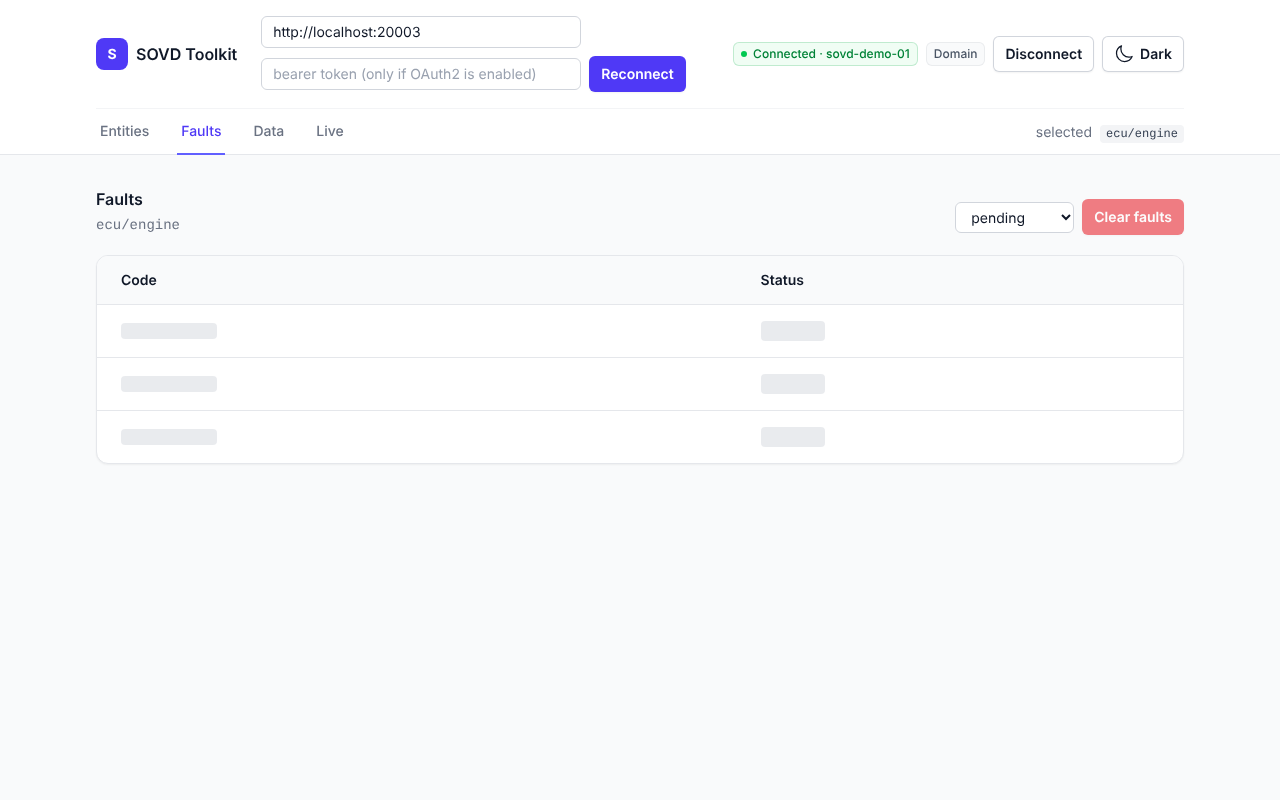
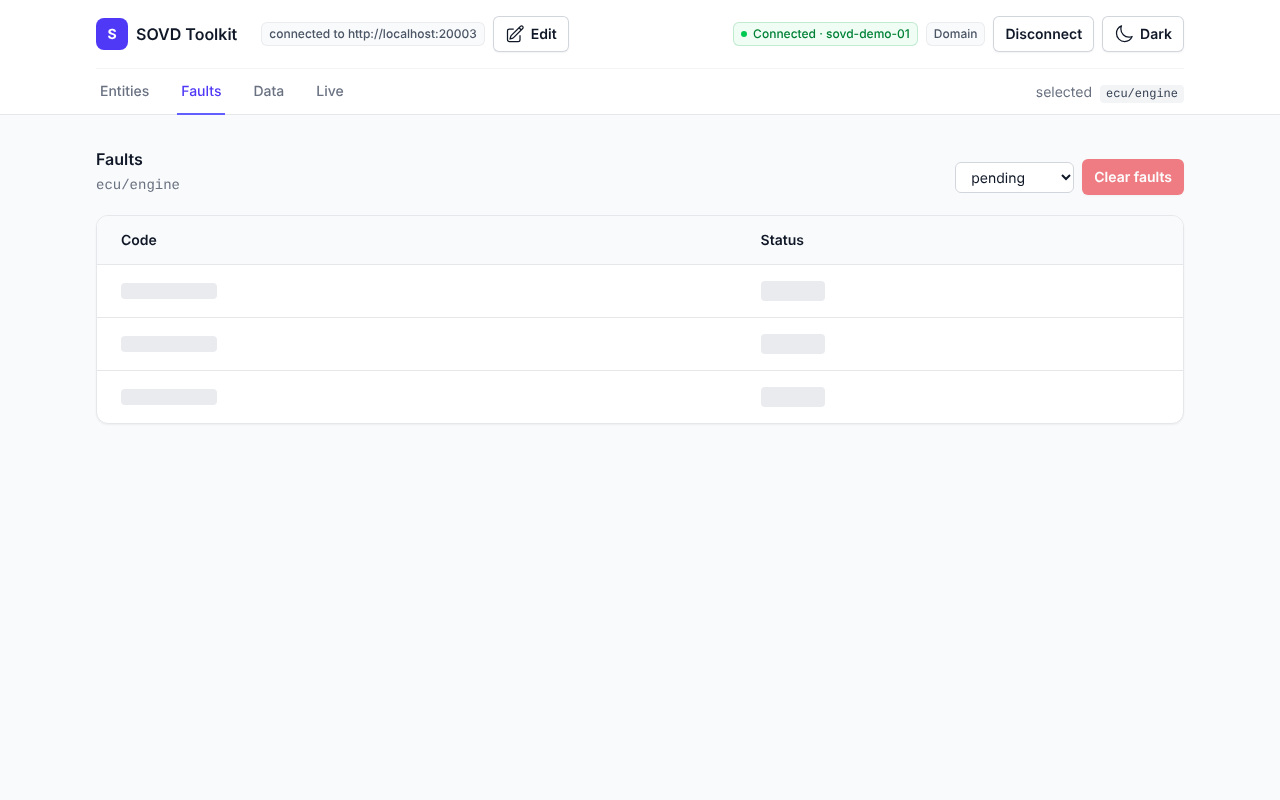
Re-shoot screenshots; keep connected chip readable on mobile
Claude-Session: https://claude.ai/code/session_01FYMcn5jeqQvgBxWVffCyNm

diff --git a/web/src/App.vue b/web/src/App.vue
@@ -126,7 +126,7 @@ function selectEntity(path: string) {
               {{ connecting ? 'Connecting…' : client ? 'Reconnect' : 'Connect' }}
             </button>
           </form>
-          <div v-else class="flex min-w-0 flex-1 items-center gap-2">
+          <div v-else class="flex min-w-0 basis-full items-center gap-2 sm:basis-0 sm:flex-1">
             <span class="badge badge-gray min-w-0">
               <span class="truncate">connected to {{ client.baseUrl }}</span>
             </span>
